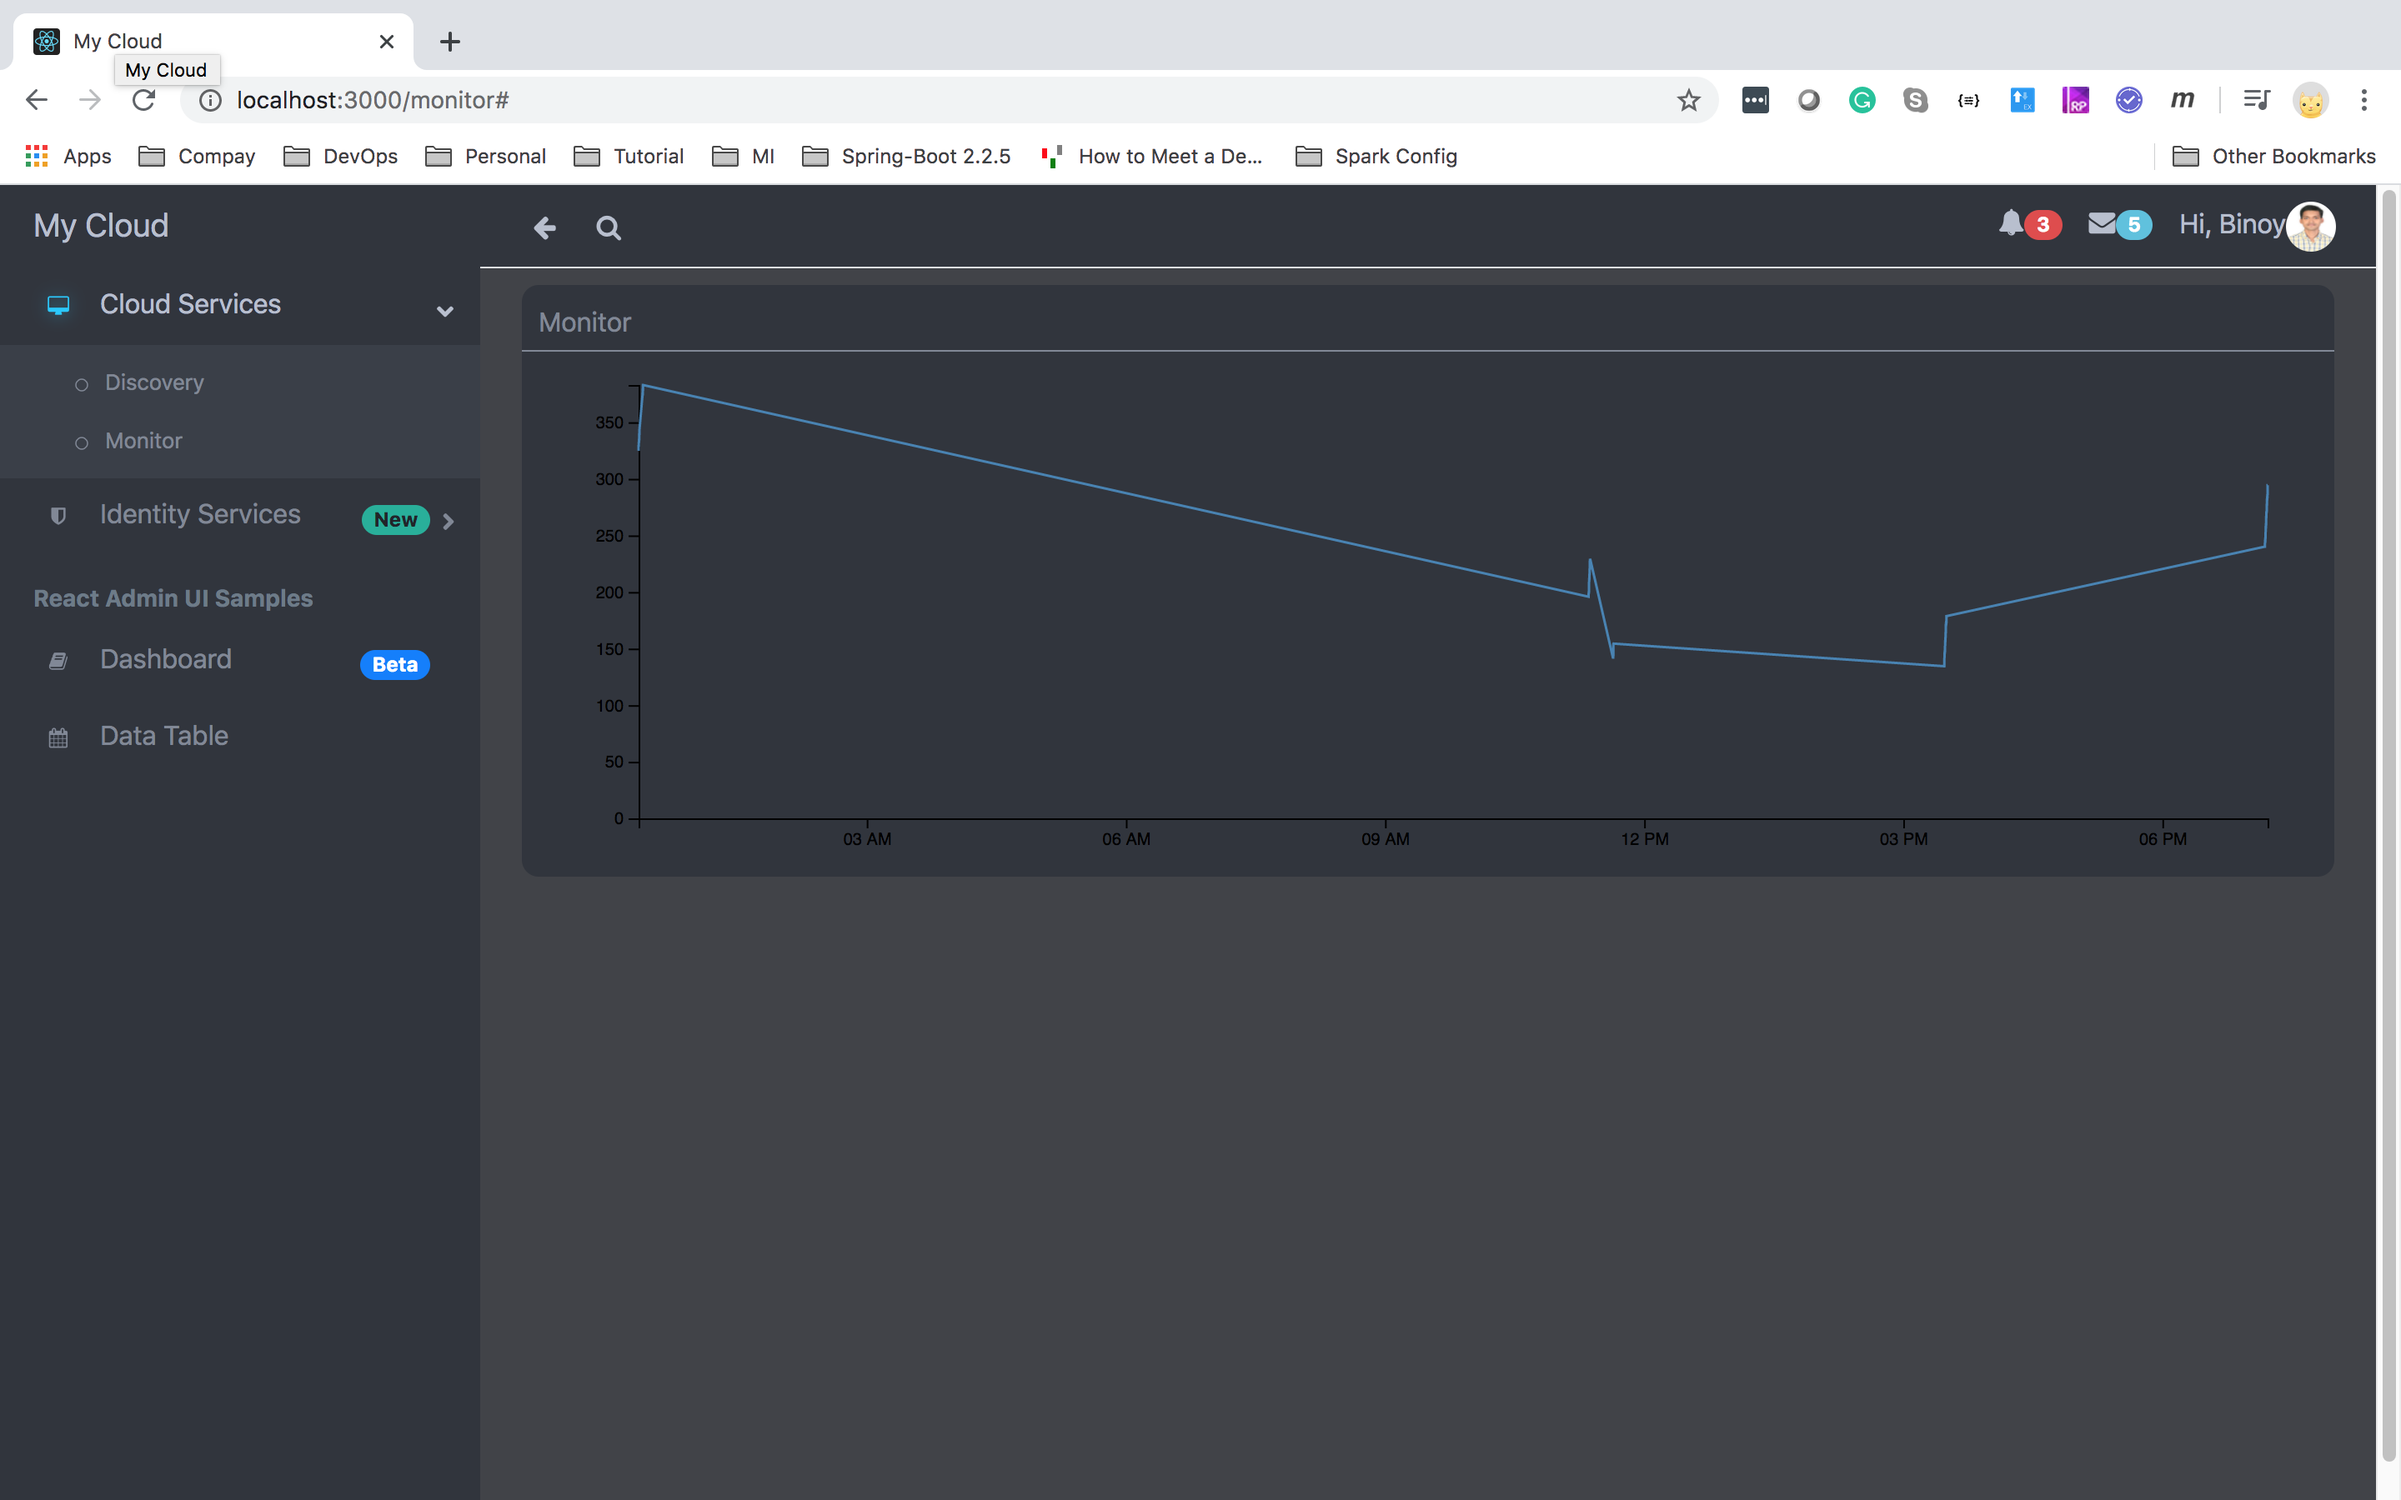
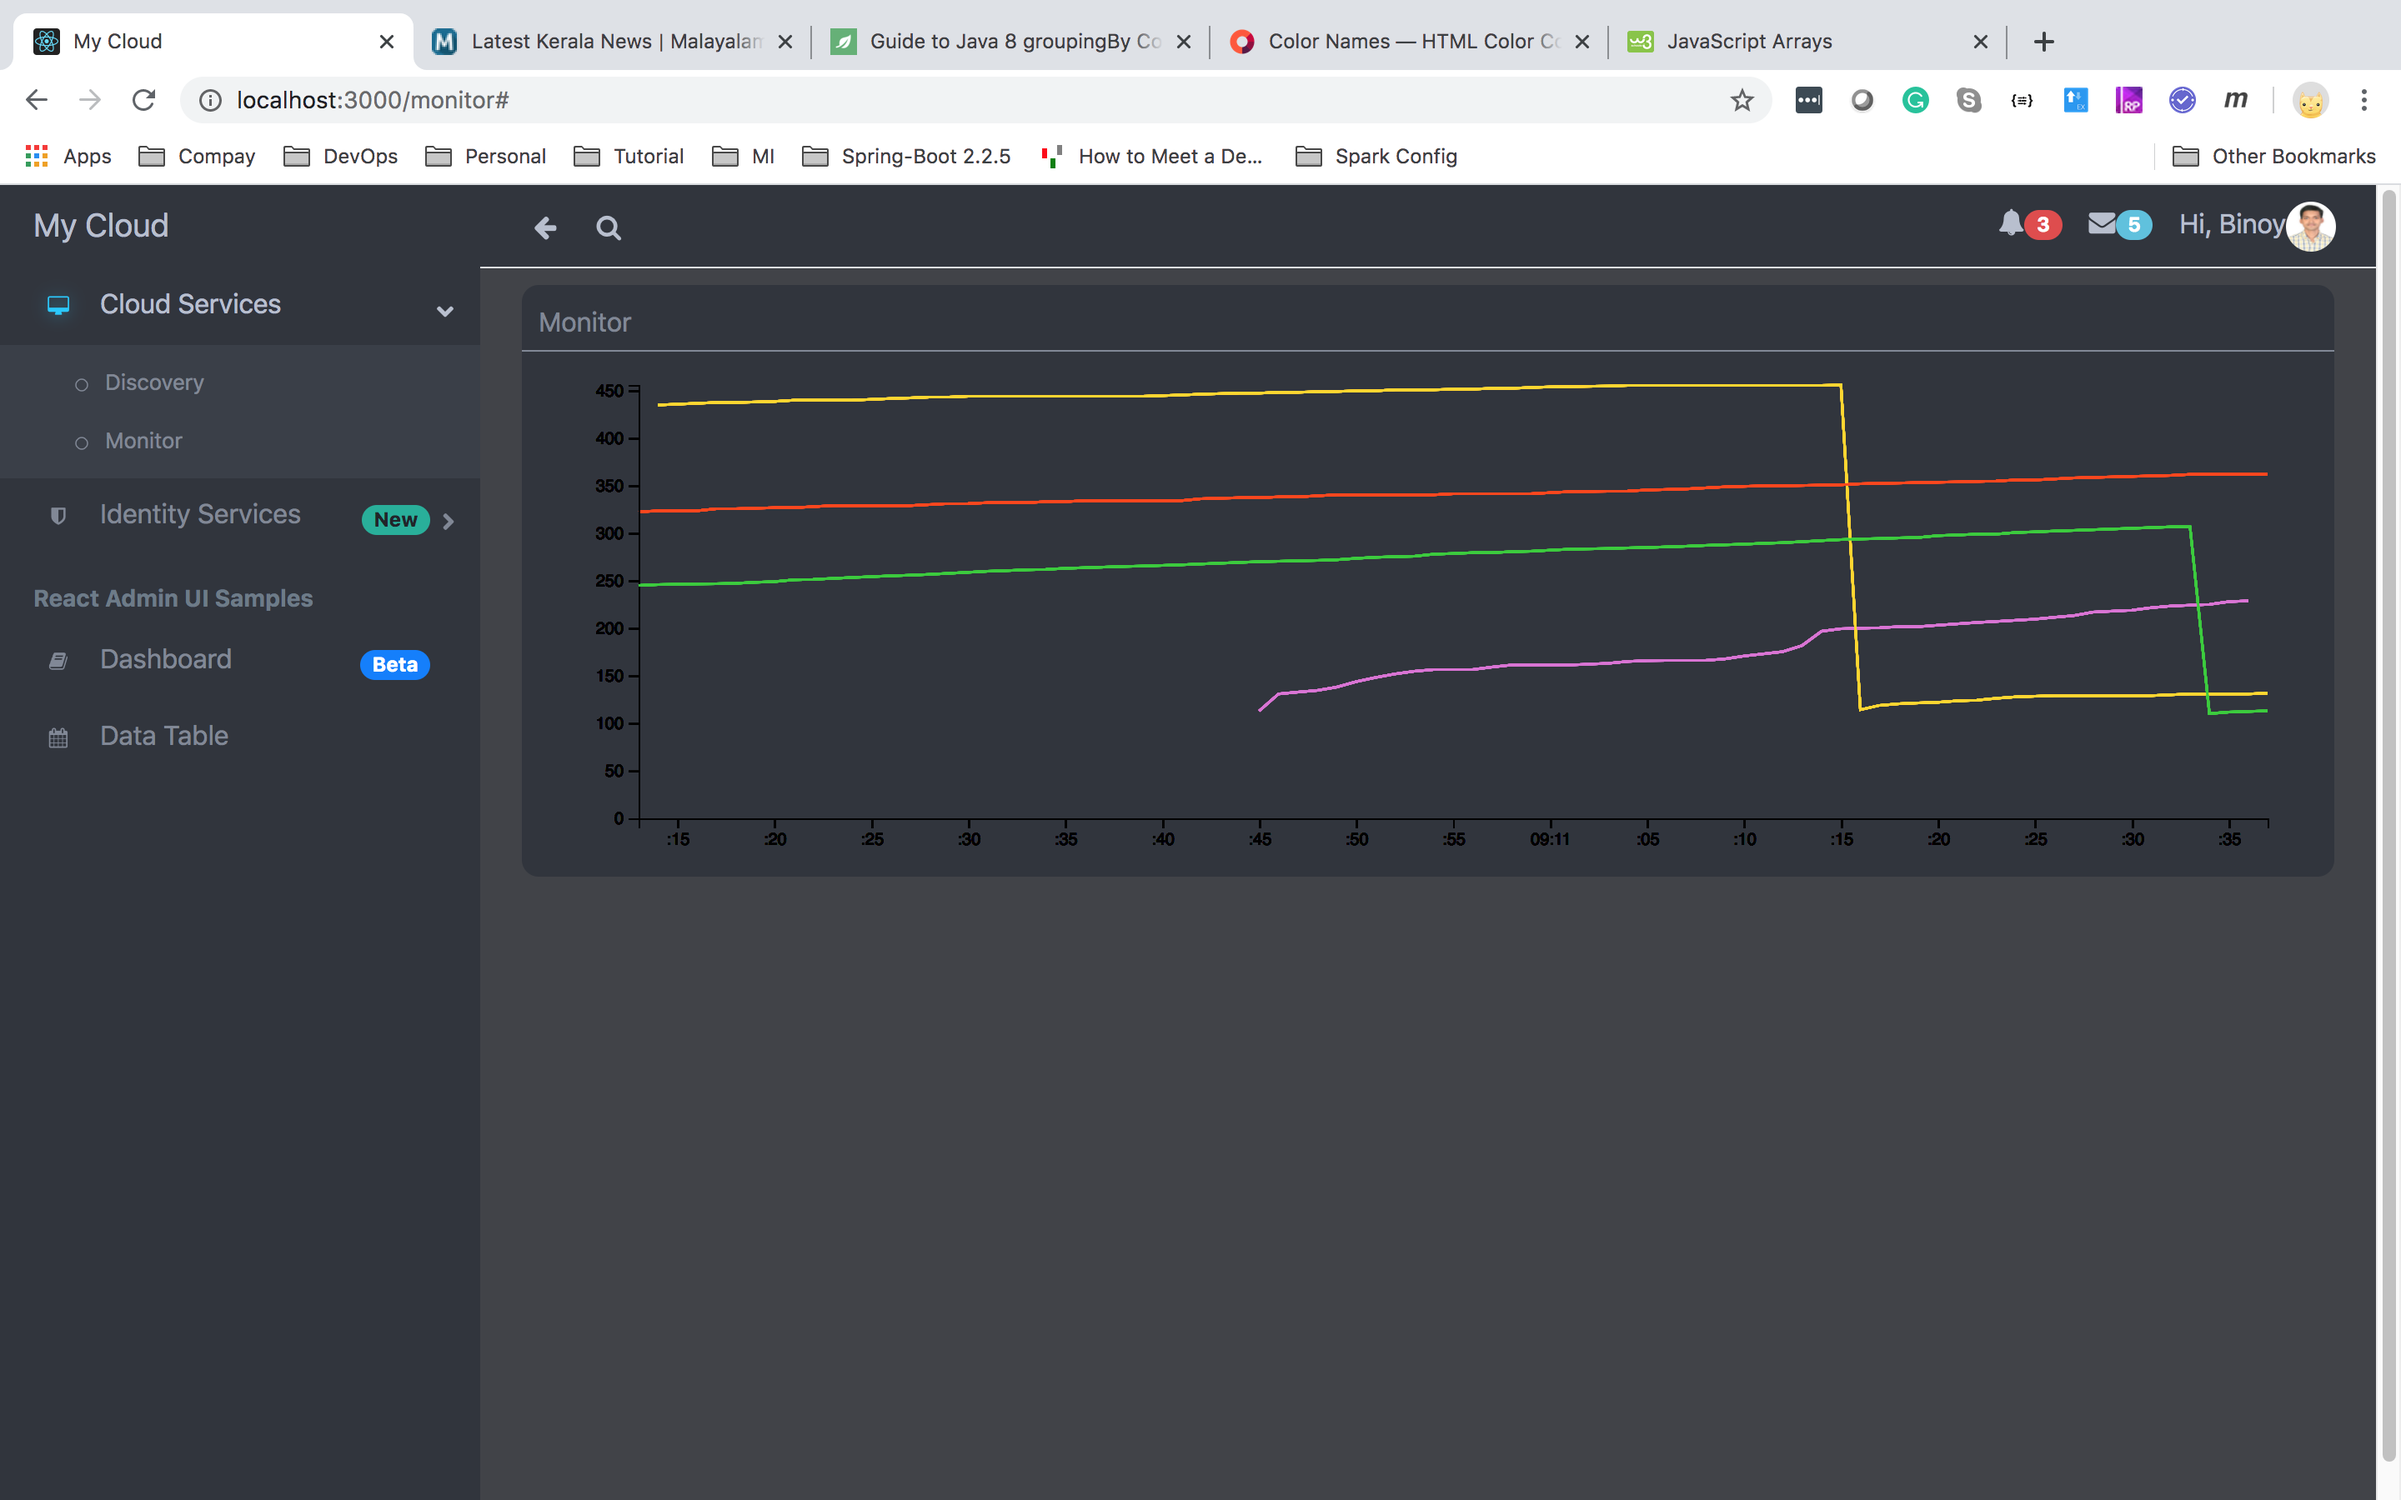
Loaded the all application memories details in chart

diff --git a/my-cloud-dashboard/src/pages/MonitorPage.js b/my-cloud-dashboard/src/pages/MonitorPage.js
@@ -27,50 +27,134 @@ class MonitorPage extends React.Component {
 
         }
 
-        this.refreshTable = this.refreshTable.bind(this);
-        this.populate = this.populate.bind(this);
+        this.formatDate = this.formatDate.bind(this);
+        this.populateAll = this.populateAll.bind(this);
+        this.sampleGroupedData = this.sampleGroupedData.bind(this);
+        this.populateGrouped = this.populateGrouped.bind(this);
+        this.jvmMemoryUsedStreamAll = this.jvmMemoryUsedStreamAll.bind(this);
+        this.jvmMemoryUsedStreamGrouped = this.jvmMemoryUsedStreamGrouped.bind(this);
+        this.colours = this.colours.bind(this);
+        
     }
 
-    async refreshTable() {
-
+    componentDidMount() {
+        // this.jvmMemoryUsedStreamAll();
+        this.jvmMemoryUsedStreamGrouped();
     }
 
+    formatDate(date) {
+        return window.d3.timeParse("%Y-%m-%d %H:%M:%S")(date);
+    }
 
+    jvmMemoryUsedStreamAll() {
+        let self = this;
 
-
-    async componentDidMount() {
-
-        let slef = this;
-
-        AppApiRepo.eventSource("/monitor/jvm-memory-used/stream",
+        AppApiRepo.eventSource("/monitor/jvm-memory-used/stream-all",
             {
                 'Authorization': AppApiRepo.getToken()
             }, function (event) {
 
-                const data=[];
+                const data = [];
                 const eventData = JSON.parse(event.data);
                 eventData.forEach(d => {
                     const val = {
-                        date: window.d3.timeParse("%Y-%m-%d %H:%M:%S")(d.time),
-                        value: (d.value / 1024/ 1024)
+                        date: self.formatDate(d.time),
+                        value: (d.value / 1024 / 1024)
                     };
                     data.push(val);
 
                     //console.log(d.time + ": " + val.date);
                 });
 
-                slef.populate(data);
+                self.populateAll(data);
 
             }, function (err) {
-                slef.populate([]);
+                self.populateAll([]);
 
                 console.log("Monitor Event Source Error : " + err.error);
             }
         );
+    }
+
+    jvmMemoryUsedStreamGrouped() {
+
+        let self = this;
+
+        let values = [];
+        let items = [];
+
+        let data = {
+            items: items,
+            values: values
+        }
+
+        let colours = self.colours();
+
+        //let data = this.sampleGroupedData();
+
+        AppApiRepo.eventSource("/monitor/jvm-memory-used/stream-grouped",
+            {
+                'Authorization': AppApiRepo.getToken()
+            }, function (event) {
+
+                const eventData = JSON.parse(event.data);
+
+                var colourIndex = 0;
+
+                eventData.forEach(app => {
+
+                    let itemData = []
+
+                    app.data.forEach(d => {
+                        
+                        let dataObj = {
+                            date: self.formatDate(d.time),
+                            value: (d.value / 1024 / 1024)
+                        };
+
+                        itemData.push(dataObj);
+                        data.values.push(dataObj);
+
+                    });
+                    
+                    data.items.push({
+                        fill: 'none',
+                        stroke: colours[colourIndex],
+                        strokeWidth: 1.5,
+                        data: itemData,
+                        x: function (d) { return d.date },
+                        y: function (d) { return d.value }
+                    })
+
+                    colourIndex = colourIndex + 1;
+                });
+
+                self.populateGrouped(data);
+
+            }, function (err) {
+                self.populateGrouped(data);
+
+                console.log("Monitor Event Source Error : " + err.error);
+            }
+        );
+    }
+
+
+
+    populateGrouped(data) {
+
+        window.d3LinesChart({
+            id: "#my_dataviz",
+            margin: { top: 10, right: 30, bottom: 30, left: 60 },
+            items: data.items,
+            values: data.values,
+            extent: function (d) { return d.date; },
+            max: function (d) { return d.value; },
+        });
 
     }
 
-    async populate(data) {
+    populateAll(data) {
 
         window.d3LineChart({
             id: "#my_dataviz",
@@ -102,6 +186,61 @@ class MonitorPage extends React.Component {
             </PageContent>
         );
 
+    }
+
+    colours() {
+        return ["ORCHID", "GOLD", "ORANGERED", "LIMEGREEN", "HOTPINK", "MEDIUMVIOLETRED", "DARKVIOLET"];
+    }
+
+    sampleGroupedData() {
+
+        let self = this;
+
+        var values = [
+            { date: self.formatDate("2020-05-17 09:10:20"), value: 200 },
+            { date: self.formatDate("2020-05-17 09:12:20"), value: 100 },
+            { date: self.formatDate("2020-05-17 09:40:20"), value: 300 },
+            { date: self.formatDate("2020-05-17 09:55:20"), value: 600 },
+            { date: self.formatDate("2020-05-17 10:10:20"), value: 150 },
+            { date: self.formatDate("2020-05-17 09:10:20"), value: 50 },
+            { date: self.formatDate("2020-05-17 09:12:20"), value: 70 },
+            { date: self.formatDate("2020-05-17 09:40:20"), value: 90 },
+            { date: self.formatDate("2020-05-17 09:55:20"), value: 400 },
+            { date: self.formatDate("2020-05-17 10:10:20"), value: 40 }
+        ]
+
+        var items = [
+            {
+                fill: 'none',
+                stroke: "steelblue",
+                strokeWidth: 1.5,
+                data: [
+                    { date: self.formatDate("2020-05-17 09:10:20"), value: 200 },
+                    { date: self.formatDate("2020-05-17 09:12:20"), value: 100 },
+                    { date: self.formatDate("2020-05-17 09:40:20"), value: 300 },
+                    { date: self.formatDate("2020-05-17 09:55:20"), value: 600 },
+                    { date: self.formatDate("2020-05-17 10:10:20"), value: 150 },
+                ],
+                x: function (d) { return d.date },
+                y: function (d) { return d.value }
+            },
+            {
+                fill: 'none',
+                stroke: "red",
+                strokeWidth: 1.5,
+                data: [
+                    { date: self.formatDate("2020-05-17 09:10:20"), value: 50 },
+                    { date: self.formatDate("2020-05-17 09:12:20"), value: 70 },
+                    { date: self.formatDate("2020-05-17 09:40:20"), value: 90 },
+                    { date: self.formatDate("2020-05-17 09:55:20"), value: 400 },
+                    { date: self.formatDate("2020-05-17 10:10:20"), value: 40 },
+                ],
+                x: function (d) { return d.date },
+                y: function (d) { return d.value }
+            }
+        ]
+
+        return { values: values, items: items };
     }
 }
 

diff --git a/my-cloud-dashboard/public/js/plugins.js b/my-cloud-dashboard/public/js/plugins.js
@@ -55,3 +55,57 @@ function d3LineChart(value) {
 }
 
 
+function d3LinesChart(value) {
+
+    // reset svg
+    d3.select("svg").remove();
+
+    // set the dimensions and margins of the graph
+    var width = $(value.id).width() - value.margin.left - value.margin.right;
+    var height = $(value.id).height() - value.margin.top - value.margin.bottom;
+
+    // append the svg object to the body of the page
+    var svg = d3.select(value.id)
+        .append("svg")
+        .attr("width", width + value.margin.left + value.margin.right)
+        .attr("height", height + value.margin.top + value.margin.bottom)
+
+        //.attr("preserveAspectRatio", "xMinYMin meet")
+        //.attr("viewBox", "0 0 1000 400")
+
+        .append("g")
+        .attr("transform",
+            "translate(" + value.margin.left + "," + value.margin.top + ")");
+
+    // Add X axis --> it is a date format
+
+    value.items.forEach(item => {
+
+        var x = d3.scaleTime()
+            .domain(d3.extent(value.values, value.extent))
+            .range([0, width]);
+        svg.append("g")
+            .attr("transform", "translate(0," + height + ")")
+            .call(d3.axisBottom(x));
+
+        // Add Y axis
+        var y = d3.scaleLinear()
+            .domain([0, d3.max(value.values, value.max)])
+            .range([height, 0]);
+        svg.append("g")
+            .call(d3.axisLeft(y));
+
+        // Add the line
+        svg.append("path")
+            .datum(item.data)
+            .attr("fill", item.fill)
+            .attr("stroke", item.stroke)
+            .attr("stroke-width", item.strokeWidth)
+            .attr("d", d3.line()
+                .x(function (d) { return x(item.x(d)) })
+                .y(function (d) { return y(item.y(d)) })
+            )
+    });
+
+
+}

diff --git a/my-cloud-monitor/src/main/java/com/developerhelperhub/ms/id/controller/Controller.java b/my-cloud-monitor/src/main/java/com/developerhelperhub/ms/id/controller/Controller.java
@@ -26,7 +26,7 @@ public class Controller {
 		return service.streamJvmMemoryUsed();
 	}
 
-	@GetMapping(value = "/jvm-memory-used/stream", produces = MediaType.TEXT_EVENT_STREAM_VALUE)
+	@GetMapping(value = "/jvm-memory-used/stream-grouped", produces = MediaType.TEXT_EVENT_STREAM_VALUE)
 	public Flux<List<JvmMemoryUsedGroupedResponseModel>> streamJvmMemoryUsedGrouped() {
 		return service.streamJvmMemoryUsedGrouped();
 	}
